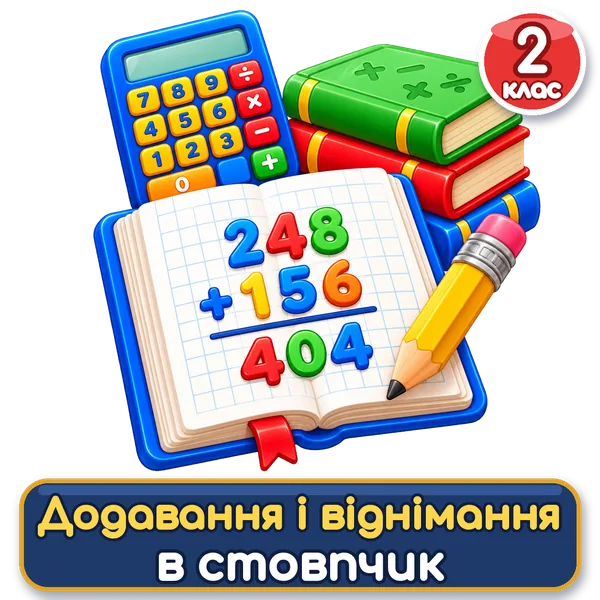
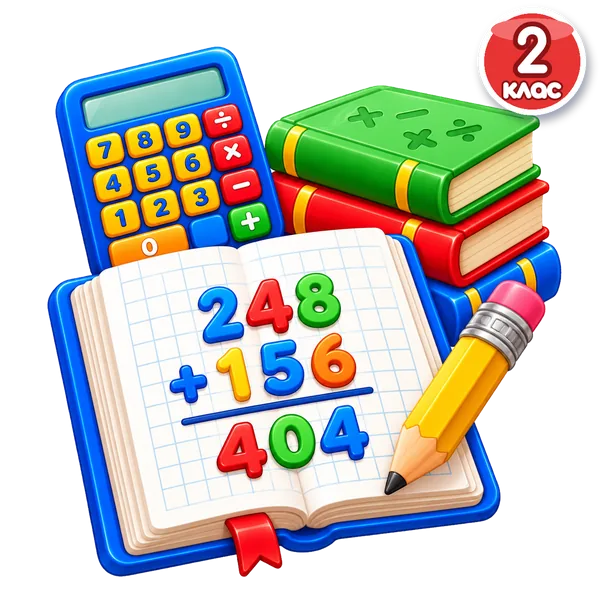
Обкладинки без підпису; «Множ швидко!» — повернуто рідну картинку
- img/tr/mnozhennya.webp: відновлено попередню обкладинку «Множ швидко!»
- img/tr/mat-tablytsya-mnozhennya.webp: нова обкладинка (лише значок «2 клас»)
  для тесту «Вивчаємо таблицю множення» — правило за назвою в sk-covers.js
- img/tr/stovpchyk.webp: прибрано підпис, лишився значок «2 клас»
- ?v піднято: sk-covers.js 20→21, mnozhennya 3→4, stovpchyk 2→3

Claude-Session: https://claude.ai/code/session_01A5hqB28TskTz6H3UMzVYXC

diff --git a/test.html b/test.html
@@ -201,7 +201,7 @@ body::before{content:'';position:fixed;inset:0;z-index:0;pointer-events:none;
 <!-- Firebase API (window.SK) -->
 <!-- Спільна карта: має бути ДО інлайн-скрипта — той читає SKCUR при парсингу -->
 <script src="sk-curriculum.js?v=9"></script>
-<script src="sk-covers.js?v=20"></script>
+<script src="sk-covers.js?v=21"></script>
 <script type="module" src="firebase-config.js"></script>
 <!-- Нагорода з адмінки (колесо фортуни, додаткові нагороди, монети) -->
 <script src="sk-items.js?v=28"></script>

diff --git a/klas-2/mnozhennya.html b/klas-2/mnozhennya.html
@@ -198,7 +198,7 @@ h1,h2,.disp{font-family:'Fredoka',sans-serif;font-weight:700;letter-spacing:.3px
         <div class="dc-go" id="doneGo">Вирушай за новими досягненнями!</div></div>
     </div>
     <div class="start-hero">
-      <img src="../img/tr/mnozhennya.webp?v=3" alt="" onerror="this.closest('.start-hero').style.display='none'">
+      <img src="../img/tr/mnozhennya.webp?v=4" alt="" onerror="this.closest('.start-hero').style.display='none'">
     </div>
     <div class="start-btns">
       <button class="big-btn" type="button" onclick="goMap()">Грати ▶</button>

diff --git a/sk-covers.js b/sk-covers.js
@@ -146,7 +146,8 @@
     [/десятки (і|й) одиниці/,          'mat-desyatky-odynytsi'],
     [/розряд/,                         'mat-rozryad'],
     [/у дві дії|у 2 дії/,              'mat-vyrazy-dvi-dii'],
-    [/у три дії|у 3 дії/,              'mat-vyrazy-try-dii']
+    [/у три дії|у 3 дії/,              'mat-vyrazy-try-dii'],
+    [/таблиц\S* множення|табличк\S* множення/, 'mat-tablytsya-mnozhennya']
   ];
   function byTitle(title, subj){
     var s = String(title||'').toLowerCase().replace(/[’'`ʼ]/g,'').trim();

diff --git a/klas-2/stovpchyk.html b/klas-2/stovpchyk.html
@@ -220,7 +220,7 @@ h1,h2,.disp{font-family:'Fredoka',sans-serif;font-weight:700;letter-spacing:.3px
         <div class="dc-go" id="doneGo">Вирушай за новими досягненнями!</div></div>
     </div>
     <div class="start-hero">
-      <img src="../img/tr/stovpchyk.webp?v=2" alt=""
+      <img src="../img/tr/stovpchyk.webp?v=3" alt=""
         onerror="this.closest('.start-hero').style.display='none'">
     </div>
     <div class="start-btns">

diff --git a/navchannia.html b/navchannia.html
@@ -174,7 +174,7 @@
          • активні тести      — SK.listActiveTests()
          • прогрес Героя      — heroes/{id}.progress ∪ localStorage
        Зв'язку з адмінкою тут НЕМАЄ: плитки й дисципліни задані статично. -->
-  <script src="sk-covers.js?v=20"></script>
+  <script src="sk-covers.js?v=21"></script>
   <script>
   (function(){
     'use strict';

diff --git a/tests.html b/tests.html
@@ -208,7 +208,7 @@
 
 <!-- Спільна карта королівства. МАЄ йти перед інлайн-скриптом нижче -->
 <script src="sk-curriculum.js?v=9"></script>
-<script src="sk-covers.js?v=20"></script>
+<script src="sk-covers.js?v=21"></script>
 <script>
 /* ── Запобіжник: sk-curriculum.js має бути свіжим ── */
 (function(){

diff --git a/hero.html b/hero.html
@@ -28,7 +28,7 @@
 <script src="sk-arena-rules.js?v=38"></script>
 <script src="sk-avatar.js?v=18"></script>
 <script src="sk-curriculum.js?v=9"></script>
-<script src="sk-covers.js?v=20"></script>
+<script src="sk-covers.js?v=21"></script>
 <script src="sk-insights.js?v=4"></script>
 <script type="module" src="firebase-config.js"></script>
 </head>
